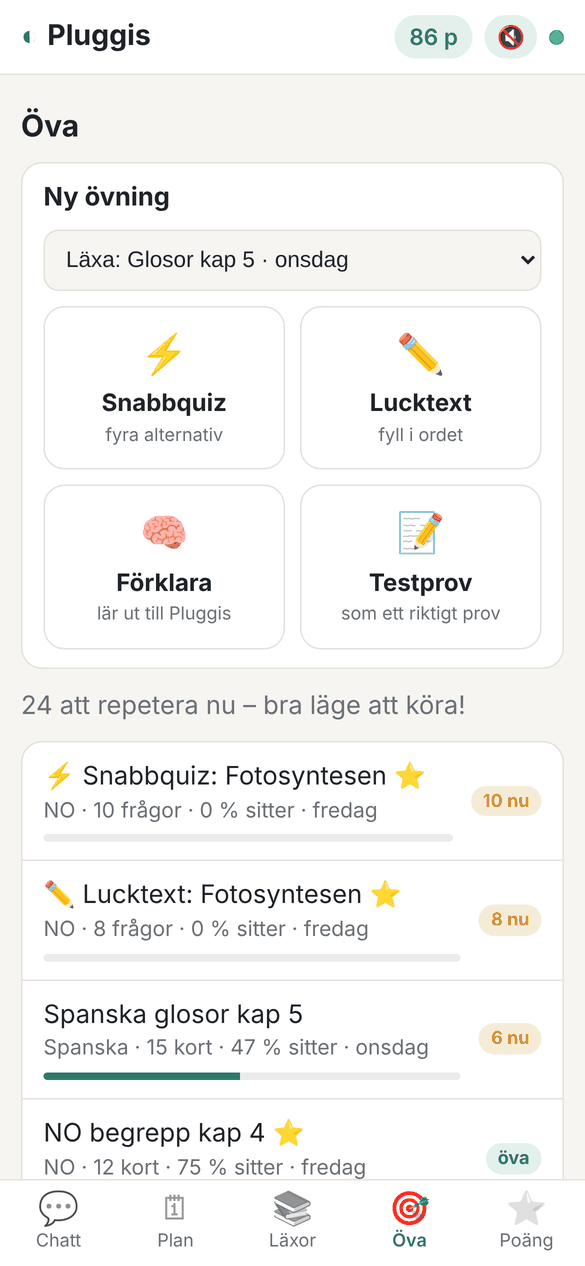
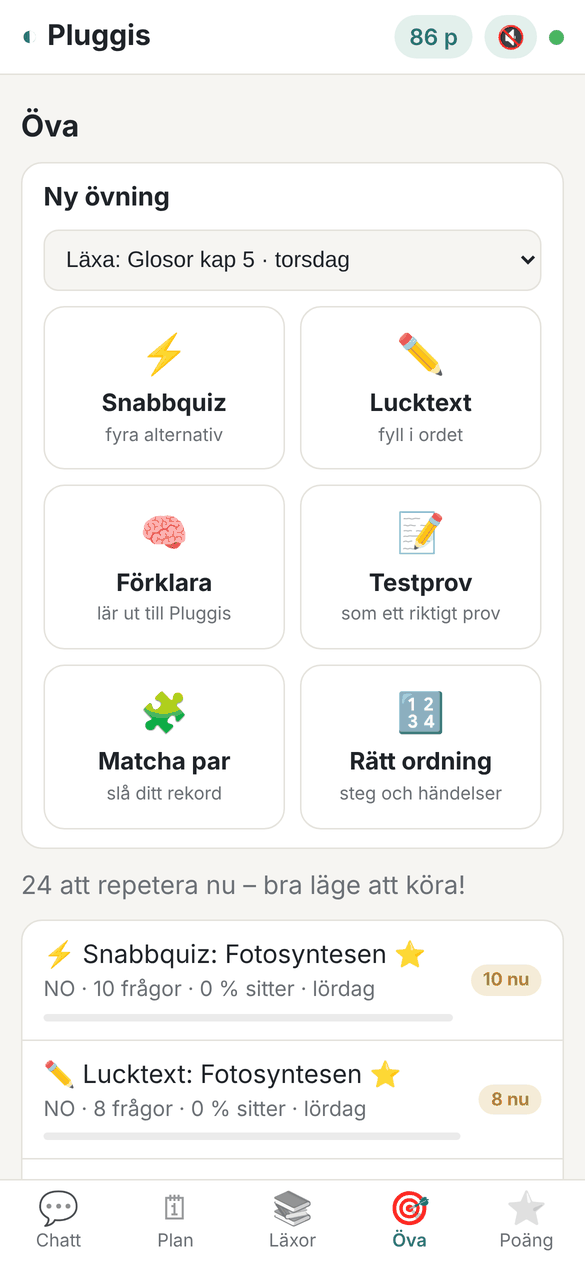
Rätt ordning fyller platserna uppifrån; matchade par ligger kvar gröna; nya skärmdumpar
Claude-Session: https://claude.ai/code/session_01327xFskV4MasD91b4hvbXD

diff --git a/tools/screenshots/shots.js b/tools/screenshots/shots.js
@@ -60,6 +60,15 @@ async function api(route) {
   if (url.pathname.match(/^\/api\/homework\/\d+\/material$/)) return json(route, [
     { id: 31, homeworkId: 7, filename: 'utkik-s40.jpg', page: 40, summary: 'Fotosyntesen – ljus, vatten och koldioxid blir socker och syre', text: 'Fotosyntesen…', hasImage: false },
     { id: 32, homeworkId: 7, filename: 'utkik-s42.jpg', page: 42, summary: 'Cellandning – socker och syre ger energi', text: 'Cellandning…', hasImage: false }]);
+  if (url.pathname === '/api/flashcards/decks/4/cards') return json(route, [
+    { id: 1, front: 'Klorofyll', back: 'Grönt ämne som fångar ljus' }, { id: 2, front: 'Glukos', back: 'Sockret växten bildar' },
+    { id: 3, front: 'Koldioxid', back: 'Gas som växten tar upp' }, { id: 4, front: 'Cellandning', back: 'Socker + syre ger energi' },
+    { id: 5, front: 'Klyvöppning', back: 'Litet hål i bladet' }, { id: 6, front: 'Fotosyntes', back: 'Ljus blir socker och syre' }]);
+  if (url.pathname.match(/\/api\/flashcards\/decks\/\d+\/cards/)) return json(route, []);
+  if (url.pathname === '/api/games/order') return json(route, { note: null, sequences: [{ title: 'Från ljus till socker', prompt: 'Sätt fotosyntesens steg i rätt ordning',
+    steps: ['Bladet fångar solljus', 'Rötterna tar upp vatten', 'Koldioxid kommer in genom bladen', 'Socker bildas', 'Syre släpps ut'],
+    why: 'Ljuset ger energin som behövs för att göra socker av vatten och koldioxid – syret blir över.' }] });
+  if (url.pathname.startsWith('/api/games/done')) return json(route, { ok: true });
   if (url.pathname === '/api/flashcards/decks') return json(route, DECKS);
   if (url.pathname.match(/\/api\/flashcards\/decks\/6\/next/)) return json(route, clozeCard);
   if (url.pathname.match(/\/api\/flashcards\/decks\/\d+\/next/)) return json(route, nextCard);
@@ -146,7 +155,20 @@ async function api(route) {
   await page.evaluate(() => window.scrollTo(0, document.body.scrollHeight));
   await shot('10-forklara-klart.png');
   await tab('poang'); await shot('11-poang.png');
+  // Matcha par: välj provet och para ihop två par
   await tab('kort');
+  await page.selectOption('.quiz-sel', '7'); await page.click('.quiz-btn:has-text("Matcha par")'); await page.waitForTimeout(500);
+  await page.click('.match-tile.l:has-text("Klorofyll")'); await page.click('.match-tile.r:has-text("Grönt ämne")');
+  await page.click('.match-tile.l:has-text("Glukos")'); await page.click('.match-tile.r:has-text("Sockret")');
+  await page.click('.match-tile.l:has-text("Cellandning")'); await page.waitForTimeout(300);
+  await shot('15-matcha.png');
+  // Rätt ordning: två steg på plats
+  await tab('kort');
+  await page.selectOption('.quiz-sel', '7'); await page.click('.quiz-btn:has-text("Rätt ordning")'); await page.waitForTimeout(500);
+  await page.click('.order-step:has-text("Bladet fångar solljus")'); await page.click('.order-step:has-text("Rötterna tar upp vatten")');
+  await page.waitForTimeout(300);
+  await shot('16-ordning.png');
+  await tab('kort'); await shot('5-ova.png');
   await page.click('.quiz-btn:has-text("Testprov")'); await page.waitForTimeout(400);
   await shot('12-testprov-start.png');
   await page.click('text=Starta provet'); await page.waitForTimeout(200);

diff --git a/src/main/resources/static/chat.js b/src/main/resources/static/chat.js
@@ -924,7 +924,7 @@ async function startOrder(homeworkId, btn) {
         if (step === seq.steps[next]) {
           next++;
           b.remove();
-          placed.append(h('div', { class: 'order-done' }, h('span', { class: 'order-n' }, String(next)), step));
+          placed.querySelector('.order-slot').replaceWith(h('div', { class: 'order-done' }, h('span', { class: 'order-n' }, String(next)), step));
           if (next === seq.steps.length) done();
         } else {
           misses++; totalMiss++;
@@ -943,8 +943,6 @@ async function startOrder(homeworkId, btn) {
       placed, h('div', { class: 'meta', style: 'margin:12px 0 6px' }, 'Kvar:'), pool, why, after));
 
     function done() {
-      // Ta bort de tomma platserna
-      placed.querySelectorAll('.order-slot').forEach(x => x.remove());
       why.hidden = !seq.why;
       const last = k === g.sequences.length - 1;
       after.replaceChildren(h('div', { class: 'meta', style: 'text-align:center;margin:10px 0' },

diff --git a/src/main/resources/static/chat.css b/src/main/resources/static/chat.css
@@ -329,7 +329,7 @@ main { flex: 1; overflow-y: auto; -webkit-overflow-scrolling: touch; display: fl
   font-size: 15px; line-height: 1.25; color: var(--ink); text-align: center; transition: transform .1s; }
 .match-tile.r { background: color-mix(in srgb, var(--accent) 5%, var(--panel)); }
 .match-tile.sel { border-color: var(--accent); transform: scale(1.03); box-shadow: 0 2px 10px rgba(0,0,0,.08); }
-.match-tile.done { visibility: hidden; }
+.match-tile.done { border-color: var(--accent); background: color-mix(in srgb, var(--accent) 12%, var(--panel)); color: var(--muted); opacity: .55; }
 .match-tile.miss, .order-step.miss { border-color: var(--red); animation: shake .35s; }
 @keyframes shake { 25% { transform: translateX(-5px); } 75% { transform: translateX(5px); } }
 .match-time { font-variant-numeric: tabular-nums; font-weight: 700; color: var(--accent); font-size: 18px; }

diff --git a/README.md b/README.md
@@ -40,7 +40,7 @@ Elevchatten i en iPhone (testdata).
   </tr>
   <tr>
     <td align="center"><img src="docs/screenshots/prov.png" width="220" alt="Provets sida med material"><br><sub>Provets sida med material</sub></td>
-    <td align="center"><img src="docs/screenshots/ova.png" width="220" alt="Öva – kort, quiz, Förklara och testprov"><br><sub>Öva – kort, quiz, Förklara och testprov</sub></td>
+    <td align="center"><img src="docs/screenshots/ova.png" width="220" alt="Öva – kort, quiz, Förklara och testprov"><br><sub>Öva – sex sätt att plugga</sub></td>
     <td align="center"><img src="docs/screenshots/snabbquiz-ratt.png" width="220" alt="Snabbquiz"><br><sub>Snabbquiz</sub></td>
   </tr>
   <tr>
@@ -52,6 +52,11 @@ Elevchatten i en iPhone (testdata).
     <td align="center"><img src="docs/screenshots/testprov-start.png" width="220" alt="Testprov"><br><sub>Testprov</sub></td>
     <td align="center"><img src="docs/screenshots/testprov-fraga.png" width="220" alt="En fråga i testprovet"><br><sub>En fråga i taget</sub></td>
     <td align="center"><img src="docs/screenshots/testprov-resultat.png" width="220" alt="Resultat av testprovet"><br><sub>Resultat och vad som ska kollas igen</sub></td>
+  </tr>
+  <tr>
+    <td align="center"><img src="docs/screenshots/matcha.png" width="220" alt="Matcha par"><br><sub>Matcha par</sub></td>
+    <td align="center"><img src="docs/screenshots/ordning.png" width="220" alt="Rätt ordning"><br><sub>Rätt ordning</sub></td>
+    <td></td>
   </tr>
 </table>
 
